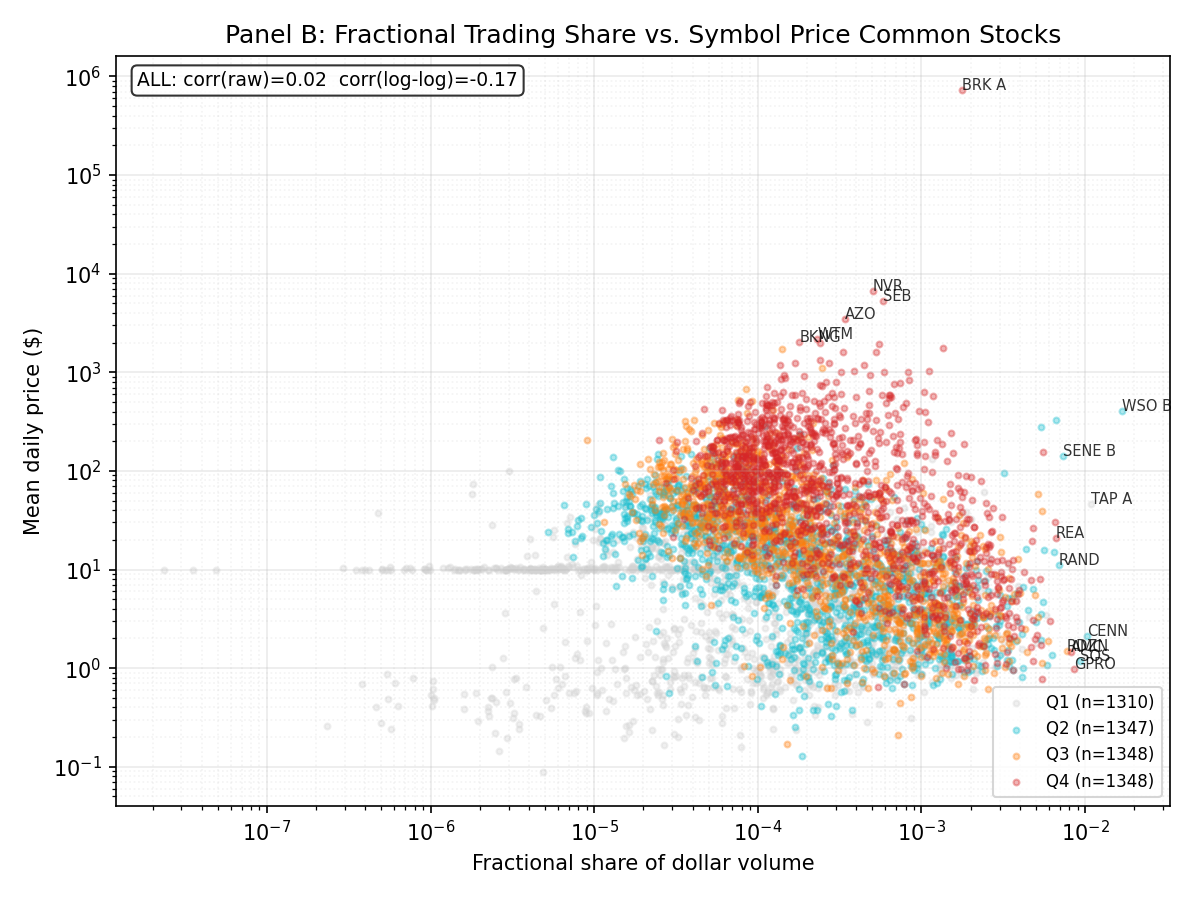
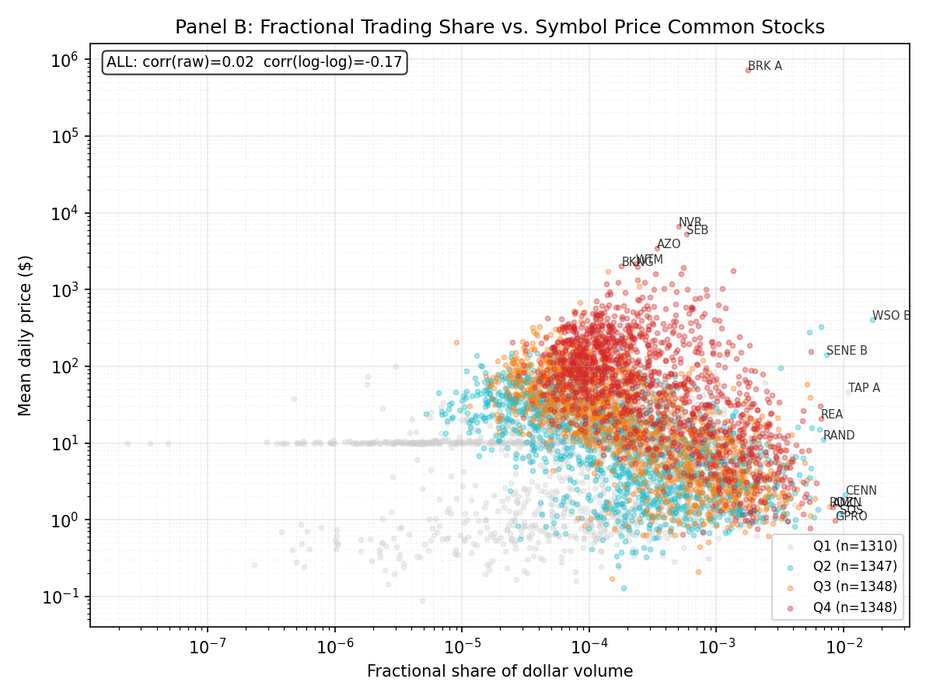
Update the job market paper text and shrink the figures
Replace the home page abstract and the intro sentence with the findings
of the current draft. Cap every paper figure at 190 pixels tall.
Turn /jmp into a redirect to the home page, so the permanent link in
the paper works but only one page holds the content.

Claude-Session: https://claude.ai/code/session_01HnJezV2SV8EyyM9ec3ZNhS

Changed region(s): [[0.9014, 0.72, 0.9325, 0.75], [0.3108, 0.06, 0.3419, 0.09]]

diff --git a/index.html b/index.html
@@ -67,9 +67,10 @@
             job market for 2026–2027. My research is in empirical market
             microstructure, currently focused on market fragmentation and fractional
             trading. My job market paper,
-            <em><a href="jmp/">The Persistence of Market Fragmentation and Liquidity</a></em>, shows
-            that fragmentation is a long memory process, and that greater lit and
-            dark fragmentation is associated with deteriorated liquidity.
+            <em>The Persistence of Market Fragmentation and Liquidity</em>, shows
+            that both the dispersion of trading across venues and liquidity are long
+            memory processes, and that the sign of the relation between them depends
+            on the horizon over which it is measured.
           </p>
           <p class="intro-links">
             <a href="assets/cv.pdf">Curriculum Vitae (PDF)</a>
@@ -90,28 +91,27 @@
         <h3 class="paper-title">The Persistence of Market Fragmentation and Liquidity</h3>
         <p class="paper-meta">Solo-authored</p>
         <p class="paper-abstract">
-          I present novel evidence that market fragmentation as measured by the daily
-          Herfindahl of trading volume across venues is a long memory process, with a
-          median differencing parameter of approximately 0.59 across 1,754 stocks from
-          2016 to 2026. Persistence is heterogeneous in the cross-section, with lower
-          priced and higher volume stocks being associated with a higher memory
-          parameter. The market-wide series is more persistent at approximately 0.77,
-          above all but seven percent of individual stocks. I estimate the association
-          between fragmentation and liquidity using econometric methods that allow for
-          unbiased inference when faced with fractionally integrated processes and I
-          find that lit and dark fragmentation are associated with deteriorated
-          liquidity. My study reconciles conflicting results in the fragmentation
-          literature.
+          More than half of U.S. equity volume executes away from exchanges that
+          display prices, and the remainder is spread across sixteen exchanges.
+          Whether this dispersion of trading deteriorates market quality is disputed
+          in theory and unresolved in the data. Using a decade of high-frequency data
+          for 1,758 highly traded stocks, I document that both the allocation of a
+          stock's trading across venues and its liquidity are long memory processes.
+          Previous econometric specifications cannot accurately identify the relation
+          between fragmentation and liquidity given this statistical property. I find
+          that competition among lit exchanges is associated with tighter spreads at
+          short horizons and wider spreads at longer horizons, with deeper books at
+          every horizon. A stock's order flow migration off-exchange is associated
+          with wider lit spreads and thinner lit depth at every horizon, while
+          market-wide off-exchange migration is associated with deeper books.
         </p>
-        <figure class="paper-figure narrow">
-          <a href="jmp/">
+        <figure class="paper-figure">
+          <a href="assets/jmp.pdf">
             <img src="assets/figs/jmp.png" alt="Coefficients on lit fragmentation by frequency band, split into common and idiosyncratic components" loading="lazy" />
           </a>
-          <figcaption>Figure 6, Panel A. Effective spreads against lit fragmentation, estimated band by band and split into common (red) and idiosyncratic (black) components. The sign of the relation depends on the horizon.</figcaption>
+          <figcaption>Effective spreads against lit fragmentation, by horizon, split into common (red) and idiosyncratic (black) components.</figcaption>
         </figure>
         <p class="paper-links">
-          <a href="jmp/">Paper page</a>
-          <span class="dot">·</span>
           <a href="assets/jmp.pdf">PDF (most recent version)</a>
         </p>
       </article>
@@ -141,7 +141,7 @@
             <a href="assets/figs/bursts.png">
               <img src="assets/figs/bursts.png" alt="Millisecond timeline of burst signature trades in five stocks" loading="lazy" />
             </a>
-            <figcaption>Burst signature trades in five stocks over 1.5 seconds on September 27, 2024. Bursts recur on a roughly 252 millisecond cycle and overlap across stocks.</figcaption>
+            <figcaption>Burst trades in five stocks over 1.5 seconds. Bursts recur on a 252 millisecond cycle.</figcaption>
           </figure>
         </li>
         <li class="paper">
@@ -162,7 +162,7 @@
             <a href="assets/crumbs.pdf">
               <img src="assets/figs/crumbs.png" alt="Fractional share of dollar volume against mean daily price for common stocks" loading="lazy" />
             </a>
-            <figcaption>Figure 6, Panel B. Fractional share of a stock's dollar volume against its mean daily price, by volume quartile. Common stocks.</figcaption>
+            <figcaption>Fractional share of dollar volume against price, by volume quartile.</figcaption>
           </figure>
           <p class="paper-links">
             <a href="https://papers.ssrn.com/sol3/papers.cfm?abstract_id=6916358">SSRN</a>
@@ -189,7 +189,7 @@
             <a href="assets/algo-events.pdf">
               <img src="assets/figs/algo-events.png" alt="Events ranked by Weller's price jump ratio with the standardized measure overlaid" loading="lazy" />
             </a>
-            <figcaption>Figure 3, Panel B. Events ranked by Weller's price jump ratio, with our standardized measure overlaid. Red marks the 432 events Weller's measure places outside [0,1].</figcaption>
+            <figcaption>Events ranked by Weller's price jump ratio, with the standardized measure overlaid.</figcaption>
           </figure>
           <p class="paper-links">
             <a href="https://papers.ssrn.com/sol3/papers.cfm?abstract_id=6711814">SSRN</a>

diff --git a/jmp/index.html b/jmp/index.html
@@ -2,89 +2,14 @@
 <html lang="en">
 <head>
   <meta charset="UTF-8" />
-  <meta name="viewport" content="width=device-width, initial-scale=1.0" />
-  <title>Job Market Paper — The Persistence of Market Fragmentation and Liquidity | Michael Coccia</title>
-  <meta name="description" content="Most recent version of the job market paper of Michael Coccia: The Persistence of Market Fragmentation and Liquidity." />
-  <link rel="icon" href="/favicon.ico" sizes="any" />
-  <link rel="icon" type="image/svg+xml" href="/icon.svg" />
-  <link rel="apple-touch-icon" href="/apple-touch-icon.png" />
-  <link rel="manifest" href="/site.webmanifest" />
-  <meta name="theme-color" content="#2f7ea6" />
-  <link rel="canonical" href="https://michaelcoccia.com/jmp/" />
-  <meta property="og:type" content="article" />
-  <meta property="og:title" content="The Persistence of Market Fragmentation and Liquidity" />
-  <meta property="og:description" content="Job market paper of Michael Coccia, University of Mississippi. Latest version always at michaelcoccia.com/jmp." />
-  <meta property="og:url" content="https://michaelcoccia.com/jmp/" />
-  <meta name="citation_title" content="The Persistence of Market Fragmentation and Liquidity" />
-  <meta name="citation_author" content="Coccia, Michael" />
-  <meta name="citation_pdf_url" content="https://michaelcoccia.com/assets/jmp.pdf" />
-  <link rel="stylesheet" href="/style.css" />
-  <link rel="preconnect" href="https://fonts.googleapis.com" />
-  <link rel="preconnect" href="https://fonts.gstatic.com" crossorigin />
-  <link href="https://fonts.googleapis.com/css2?family=Newsreader:ital,opsz,wght@0,6..72,400;0,6..72,500;0,6..72,600;1,6..72,400&family=Inter:wght@400;500;600&display=swap" rel="stylesheet" />
+  <meta http-equiv="refresh" content="0; url=/#jmp" />
+  <link rel="canonical" href="https://michaelcoccia.com/#jmp" />
+  <meta name="robots" content="noindex" />
+  <title>Job Market Paper — Michael Coccia</title>
+  <script>window.location.replace("/#jmp");</script>
 </head>
 <body>
-  <header class="site-header">
-    <nav class="nav">
-      <a class="nav-brand" href="/">Michael Coccia</a>
-      <ul class="nav-links">
-        <li><a href="/#research">Research</a></li>
-        <li><a href="/#teaching">Teaching</a></li>
-        <li><a href="/#cv">CV</a></li>
-        <li><a href="/#contact">Contact</a></li>
-      </ul>
-    </nav>
-  </header>
-
-  <main id="top">
-    <section class="section">
-      <h2>Job Market Paper</h2>
-      <article class="paper jmp">
-        <h3 class="paper-title">The Persistence of Market Fragmentation and Liquidity</h3>
-        <p class="paper-meta">Michael Coccia · University of Mississippi · Solo-authored</p>
-        <p class="paper-abstract">
-          More than half of U.S. equity volume executes away from exchanges that
-          display prices, and the remainder is spread across sixteen exchanges.
-          Whether this dispersion of trading deteriorates market quality is disputed
-          in theory and unresolved in the data. Using a decade of high-frequency data
-          for 1,758 highly traded stocks, I document that both the allocation of a
-          stock's trading across venues and its liquidity are long memory processes.
-          Previous econometric specifications cannot accurately identify the relation
-          between fragmentation and liquidity given this statistical property. I find
-          that competition among lit exchanges is associated with tighter spreads at
-          short horizons and wider spreads at longer horizons, with deeper books at
-          every horizon. A stock's order flow migration off-exchange is associated
-          with wider lit spreads and thinner lit depth at every horizon, while
-          market-wide off-exchange migration is associated with deeper books.
-        </p>
-        <figure class="paper-figure narrow">
-          <a href="/assets/jmp.pdf">
-            <img src="/assets/figs/jmp.png" alt="Coefficients on lit fragmentation by frequency band, split into common and idiosyncratic components" loading="lazy" />
-          </a>
-          <figcaption>
-            Figure 6, Panel A. Effective spreads against lit fragmentation,
-            estimated band by band and split into common (red) and
-            idiosyncratic (black) components. The sign of the relation depends
-            on the horizon.
-          </figcaption>
-        </figure>
-        <p><a class="button" href="/assets/jmp.pdf">Download the most recent version (PDF)</a></p>
-        <p class="paper-meta">
-          This page always serves the most recent draft. Permanent link:
-          <a href="https://michaelcoccia.com/jmp">michaelcoccia.com/jmp</a>.
-          For an earlier version or the replication materials, please
-          <a href="mailto:macoccia@olemiss.edu">email me</a>.
-        </p>
-      </article>
-    </section>
-  </main>
-
-  <footer class="site-footer">
-    <p>© <span id="year"></span> Michael Coccia · University of Mississippi</p>
-  </footer>
-
-  <script>
-    document.getElementById('year').textContent = new Date().getFullYear();
-  </script>
+  <p>Redirecting to the <a href="/#jmp">job market paper</a>.
+     The PDF is <a href="/assets/jmp.pdf">here</a>.</p>
 </body>
 </html>

diff --git a/style.css b/style.css
@@ -262,28 +262,35 @@ h2 {
 
 /* ===== Paper figures ===== */
 .paper-figure {
-  margin: 16px 0 14px;
+  margin: 14px 0 12px;
   padding: 0;
+  max-width: 100%;
 }
 .paper-figure a {
-  display: block;
+  display: inline-block;
   background: #ffffff;
   border: 1px solid var(--border);
-  border-radius: 8px;
-  padding: 12px;
+  border-radius: 6px;
+  padding: 8px;
+  max-width: 100%;
 }
 .paper-figure a:hover { border-color: var(--accent); }
 .paper-figure img {
   display: block;
-  width: 100%;
+  max-height: 190px;
+  max-width: 100%;
+  width: auto;
   height: auto;
   border-radius: 2px;
 }
 .paper-figure figcaption {
   font-family: var(--sans);
-  font-size: 13.5px;
+  font-size: 13px;
   line-height: 1.5;
   color: var(--muted);
-  margin-top: 9px;
+  margin-top: 7px;
+  max-width: 520px;
 }
-.paper-figure.narrow { max-width: 470px; }
+@media (max-width: 620px) {
+  .paper-figure img { max-height: 150px; }
+}
